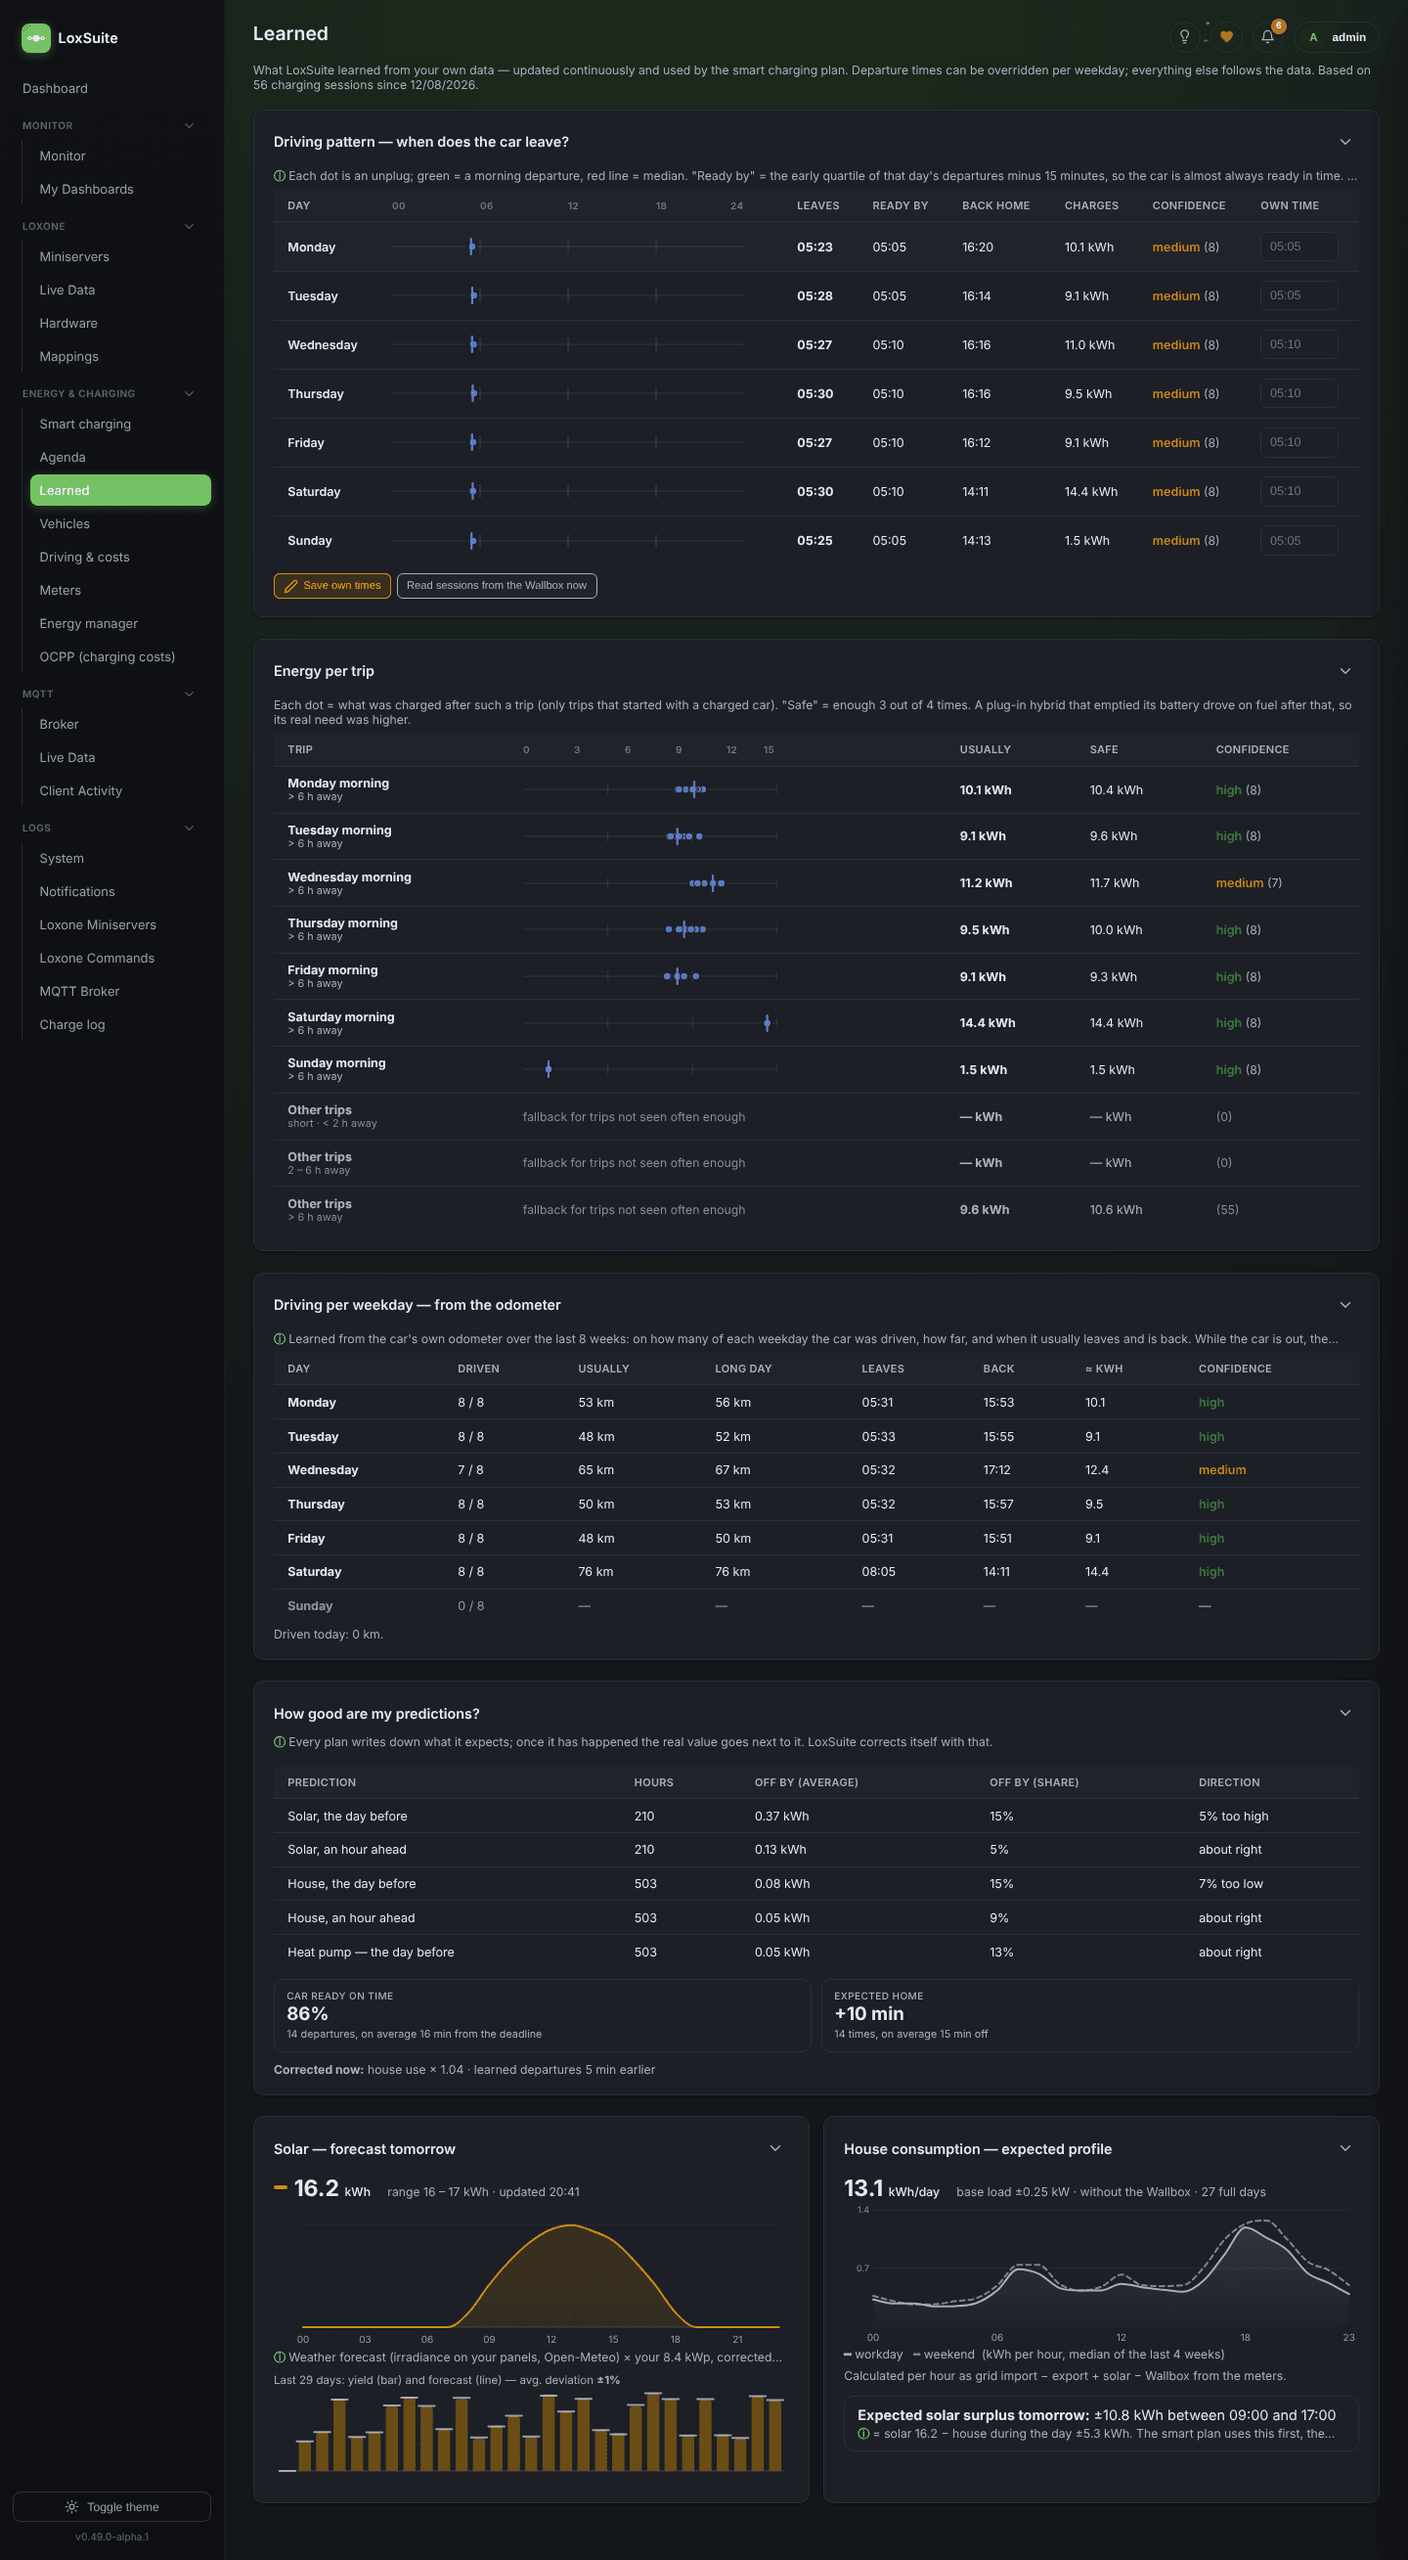
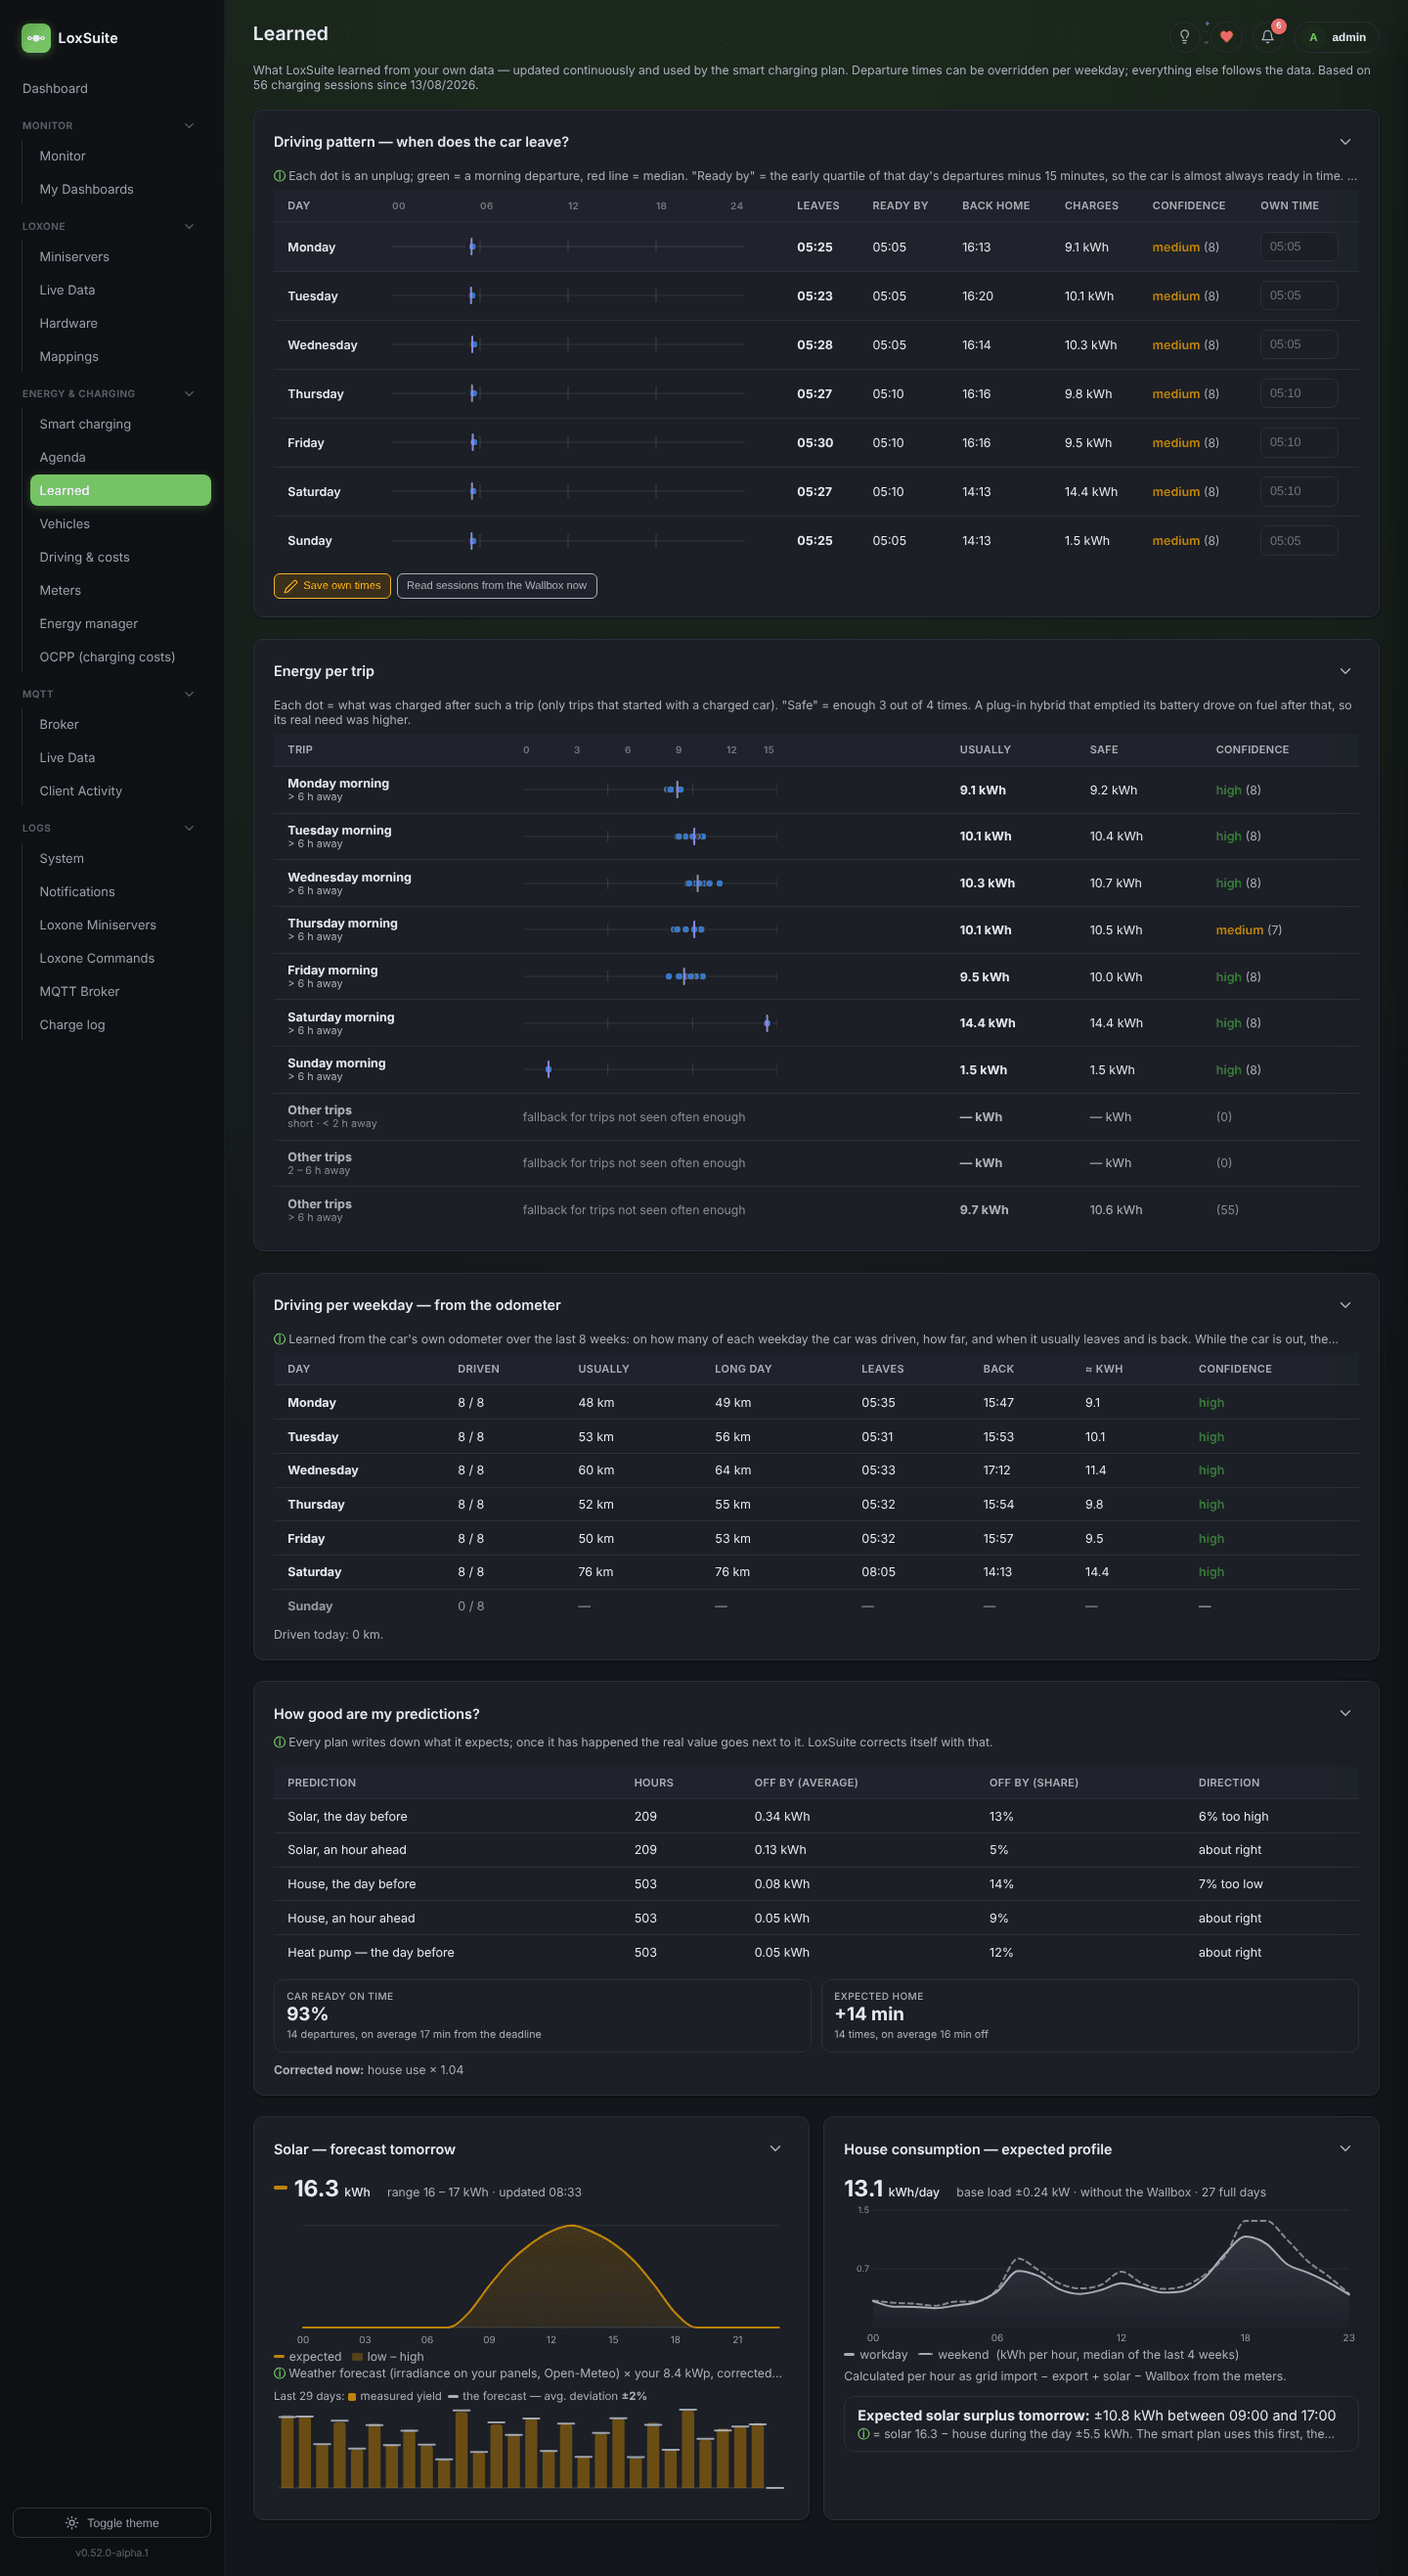
v0.52.1: a key shaped like its mark in every chart legend, hover summary and detail tile (stripe for a line, square for columns, dashed, band)

diff --git a/gateway/public/ls-chart.js b/gateway/public/ls-chart.js
@@ -75,9 +75,23 @@
     return '<line x1="' + f(x1) + '" y1="' + f(y) + '" x2="' + f(x2) + '" y2="' + f(y) + '" stroke="currentColor" opacity="' + (opacity == null ? 0.07 : opacity) + '"/>';
   }
 
+  // A legend key that looks like its mark: kind 'line' (a stripe, default), 'col' (a square: columns,
+  // bars), 'dash' (a dashed stripe), 'band' (a light block). HTML, for legends, tiles and the hover card.
+  function key(color, kind) {
+    var k = kind && kind !== 'line' ? ' ls-key-' + kind : '';
+    return '<i class="ls-key' + k + '" style="' + (kind === 'dash' ? 'border-top-color:' : 'background:') + color + ';"></i>';
+  }
+  function keyEl(color, kind) {
+    var i = document.createElement('i');
+    i.className = 'ls-key' + (kind && kind !== 'line' ? ' ls-key-' + kind : '');
+    if (kind === 'dash') i.style.borderTopColor = color; else i.style.background = color;
+    return i;
+  }
+
   // Point at a chart: a vertical crosshair snaps to the nearest position and a small card lists every
   // series there. host: the element around the <svg>; o: { W (viewBox width), top, bottom (viewBox y),
-  // n, x(i) (viewBox x of position i), title(i), rows(i) -> [[label, value, color?], …], click(i)? }.
+  // n, x(i) (viewBox x of position i), title(i), rows(i) -> [[label, value, color?, kind?], …] (kind as
+  // in key()), click(i)? }.
   function hover(host, o) {
     var svg = host && host.querySelector('svg');
     if (!svg || !o || !o.n) return;
@@ -104,8 +118,9 @@
         if (!rw) return;
         var div = document.createElement('div');
         var l = document.createElement('span');
-        if (rw[2]) { var k = document.createElement('i'); k.className = 'ls-tip-key'; k.style.background = rw[2]; l.appendChild(k); }
-        l.appendChild(document.createTextNode(rw[0]));
+        l.className = 'ls-tip-l';
+        if (rw[2]) l.appendChild(keyEl(rw[2], rw[3]));
+        var lt = document.createElement('span'); lt.textContent = rw[0]; l.appendChild(lt);
         var v = document.createElement('strong'); v.textContent = rw[1];
         div.appendChild(l); div.appendChild(v); tip.appendChild(div);
       });
@@ -119,5 +134,5 @@
     if (o.click) { svg.style.cursor = 'pointer'; svg.addEventListener('click', function (ev) { o.click(at(ev)); }); }
   }
 
-  window.LsChart = { smooth: smooth, area: area, between: between, line: line, wash: wash, col: col, hline: hline, hover: hover };
+  window.LsChart = { smooth: smooth, area: area, between: between, line: line, wash: wash, col: col, hline: hline, hover: hover, key: key, keyEl: keyEl };
 })();

diff --git a/gateway/public/style.css b/gateway/public/style.css
@@ -4969,3 +4969,11 @@ tr.ls-extra { display: none; }
 .ls-tip > div > strong { font-variant-numeric: tabular-nums; }
 .ls-tip .ls-tip-h { display: block; font-weight: 600; margin-bottom: 0.15rem; }
 .ls-tip .ls-tip-key { display: inline-block; width: 0.7em; height: 3px; border-radius: 2px; margin-right: 0.35em; vertical-align: 0.2em; }
+.ls-tip > div > span.ls-tip-l { opacity: 1; }
+.ls-tip-l > span { opacity: 0.75; }
+/* A legend key that looks like the mark it stands for (LsChart.key): a stripe for a line (default), a
+   square for columns/bars, a dashed stripe for a dashed line, a light block for a band. */
+.ls-key { display: inline-block; flex: none; width: 0.9em; height: 3px; border-radius: 2px; margin-right: 0.4em; vertical-align: 0.22em; background: currentColor; }
+.ls-key.ls-key-col { width: 0.7em; height: 0.7em; border-radius: 2px; vertical-align: -0.05em; }
+.ls-key.ls-key-band { width: 0.9em; height: 0.7em; border-radius: 2px; vertical-align: -0.05em; opacity: 0.35; }
+.ls-key.ls-key-dash { width: 1.25em; height: 0; background: none; border-top: 2px dashed currentColor; vertical-align: 0.25em; }

diff --git a/README.md b/README.md
@@ -7,7 +7,7 @@
      since this repo only publishes git tags, not GitHub Releases) — bump it alongside CHANGELOG.md
      and package.json on every version release. -->
 [![Latest version](https://img.shields.io/github/v/tag/DaveRutten/LoxSuite?sort=semver&label=version)](https://github.com/DaveRutten/LoxSuite/tags)
-[![Commits since latest tag](https://img.shields.io/github/commits-since/DaveRutten/LoxSuite/v0.52.0-alpha.1)](https://github.com/DaveRutten/LoxSuite/commits/main)
+[![Commits since latest tag](https://img.shields.io/github/commits-since/DaveRutten/LoxSuite/v0.52.1-alpha.1)](https://github.com/DaveRutten/LoxSuite/commits/main)
 [![Open issues](https://img.shields.io/github/issues/DaveRutten/LoxSuite)](https://github.com/DaveRutten/LoxSuite/issues)
 [![License](https://img.shields.io/github/license/DaveRutten/LoxSuite)](LICENSE)
 
@@ -719,7 +719,9 @@ charging page itself is the overview.
   charging, down during the drives in the agenda or the usual drive of that day, with the level at the start,
   when it has to be ready and around each drive) and **solar surplus with the import from the grid** (kW). Soft
   fills, smooth lines with a light wash, a tick every hour, the days below, *now*, *ready by* and *expected home*
-  over all panels. Point at an hour for a summary, **tap** it for the details: its price (per quarter), what is
+  over all panels. Every legend, the summary when you point and the details show a key shaped like the mark — a
+  stripe for a line (solar surplus yellow, import from the grid pink, the battery violet), a square for columns.
+  Point at an hour for a summary, **tap** it for the details: its price (per quarter), what is
   planned (kWh, kW, solar part), solar and house, import from the grid, what it costs and the battery after it.
 - **One chart style** in the whole energy part (Smart charging, Meters, energy manager, consumers, Learned, Driving
   & costs, charge log): smooth lines, a light wash, soft columns, hairline grid, point at a chart for the values,

diff --git a/CHANGELOG.md b/CHANGELOG.md
@@ -2,6 +2,23 @@
 
 All notable changes to this project are documented in this file.
 
+## [0.52.1-alpha.1] - 2026-10-08
+
+### Changed
+- **Keys in every legend** (asked: "in the details overview it would help to see that import from the grid is the
+  pink stripe and solar surplus the yellow one — for all legends"): a key shaped like the mark it stands for — a
+  stripe for a line, a square for columns, a dashed stripe for a dashed line, a light block for a band
+  (`LsChart.key`, `.ls-key` in style.css).
+  - **Smart charging**: the summary when you point (price, planned, battery level, solar surplus, import from the
+    grid), the details of a tapped hour, and the panel legends (solar surplus and the battery as a line, not a
+    square).
+  - **Energy manager**: the summary when you point (columns and bars as squares, solar as a stripe) and the details
+    of an hour.
+  - **Meters**: solar and house as stripes, the Wallbox, import and export as squares.
+  - **Learned**: the solar forecast (expected stripe, low – high as a light block, now with a legend under the
+    chart), the last days (measured yield square, the forecast stripe) and the house profile (workday stripe,
+    weekend dashed).
+
 ## [0.52.0-alpha.1] - 2026-10-08
 
 ### Changed
